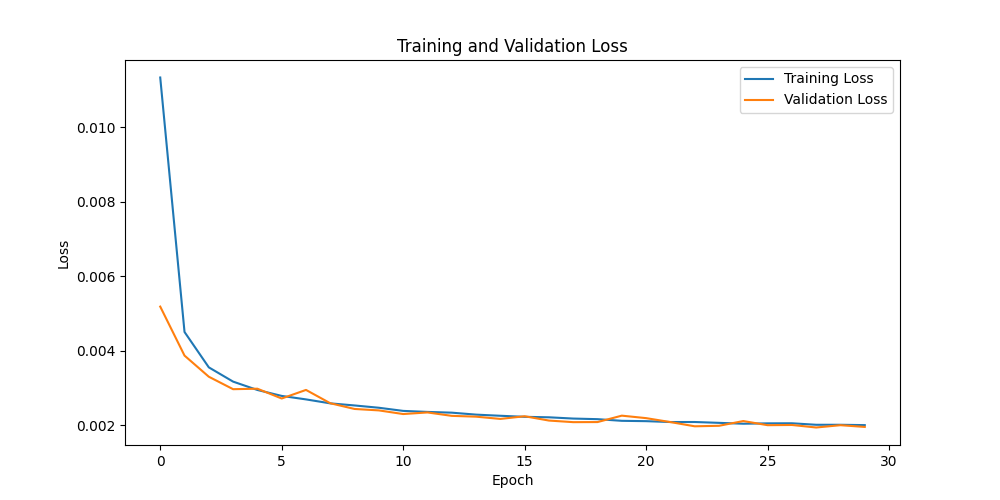
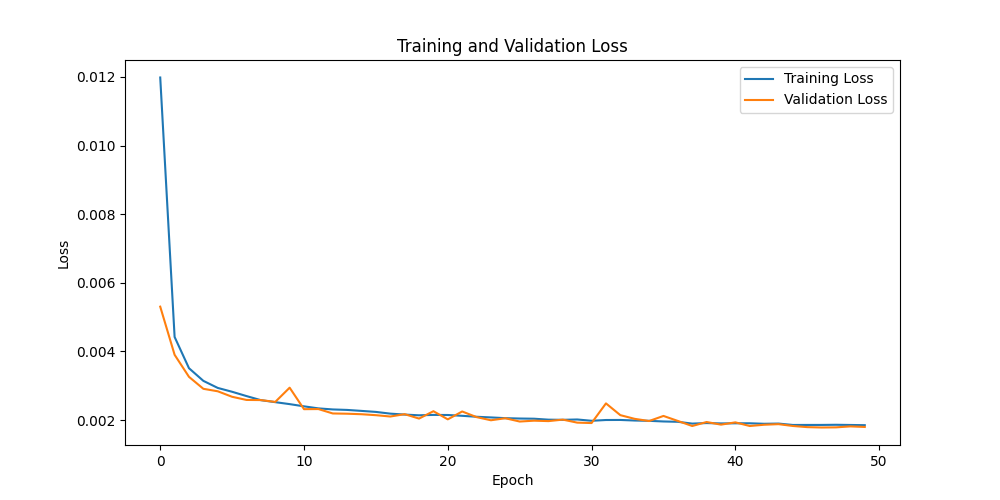
CAE epoch update

diff --git a/models/CAE/conv_autoencoder.py b/models/CAE/conv_autoencoder.py
@@ -362,7 +362,7 @@ def main():
     save_dir = 'models/CAE'
     batch_size = 256  # Increased batch size for faster training
     learning_rate = 0.001
-    num_epochs = 30  # Reduced number of epochs
+    num_epochs = 50  # Reduced number of epochs
     
     # Create directories
     os.makedirs(save_dir, exist_ok=True)
